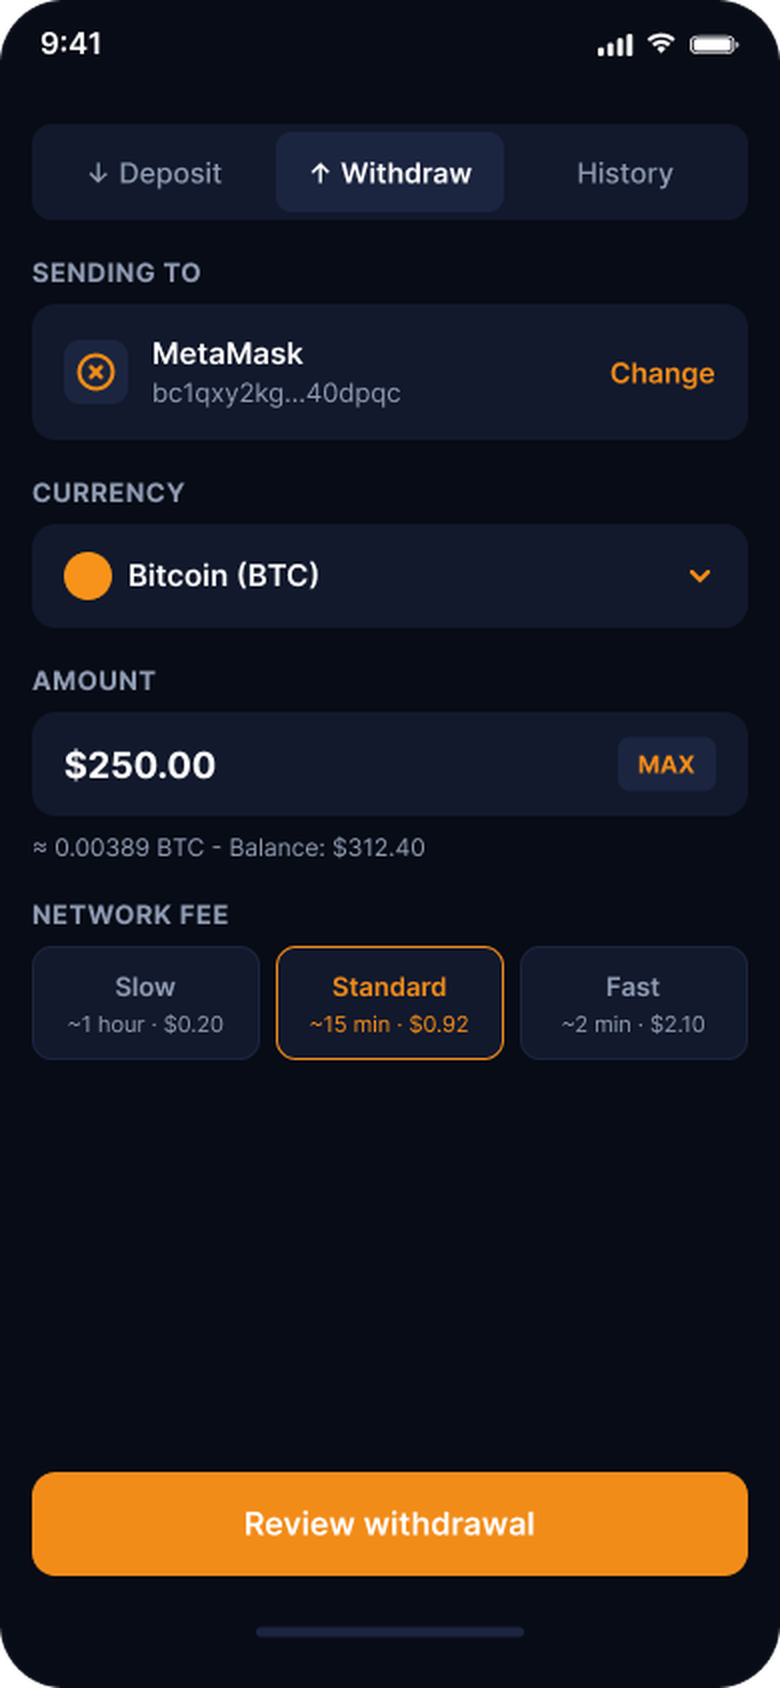
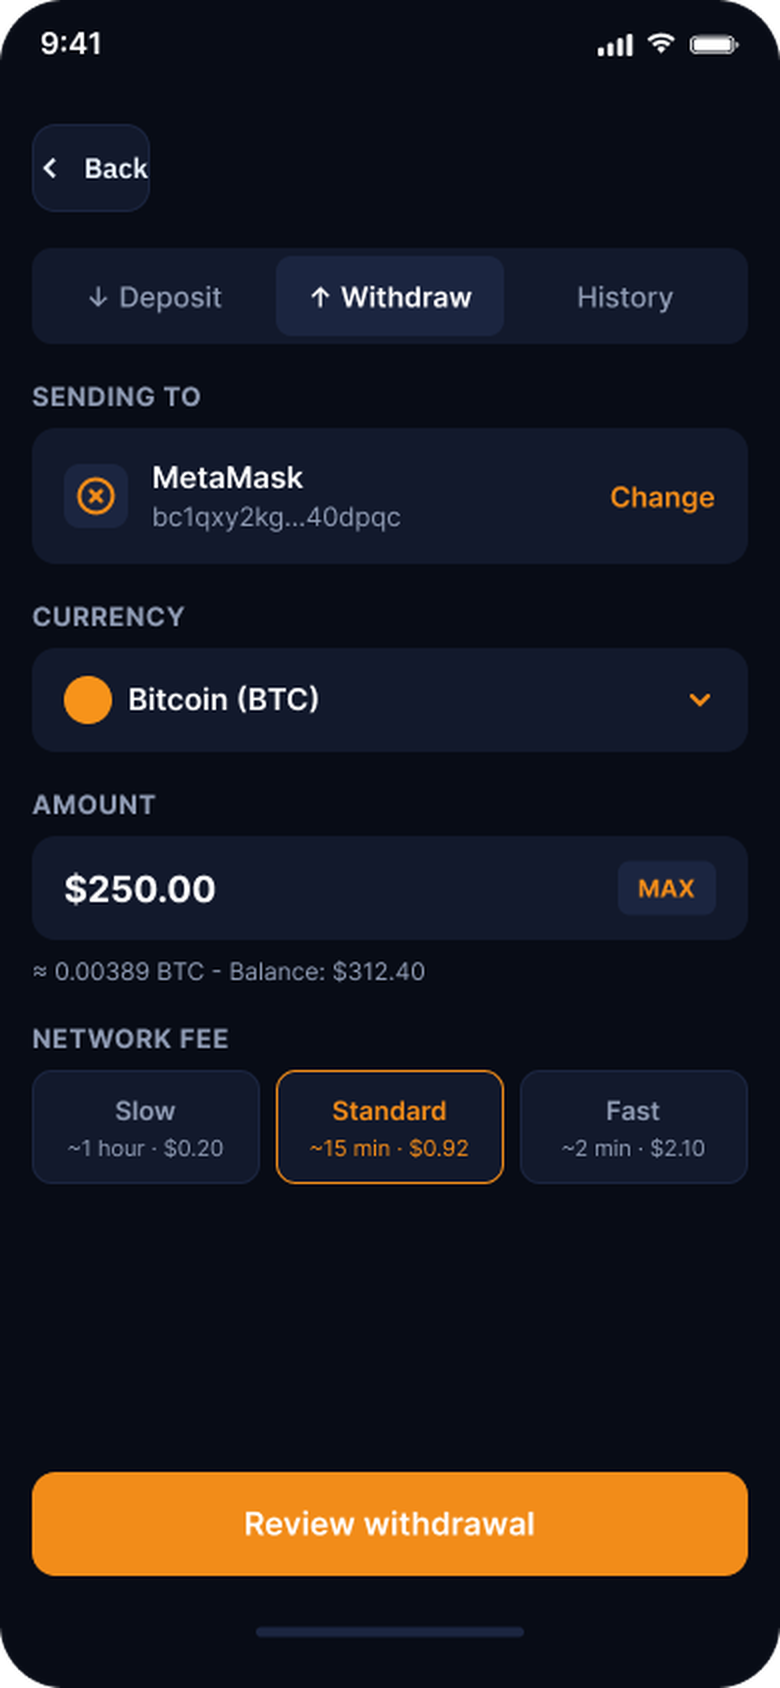
Add interactive trust walkthrough to the cashier case study
New CaseStudyWalkthrough component: an iPhone frame with numbered pins
over the exact UI regions beside a list of four steps. Clicking a step
swaps the screen and its callouts; it auto-advances until the reader
takes over. Steps cover wallet selection, amount and network on one
screen, the live confirmation state, and the error guardrail.

Also refresh the solution-row screens to the Back-button exports.

Claude-Session: https://claude.ai/code/session_01AoRfNk2gKVXEJqsJWcZC7M

diff --git a/lib/projects.ts b/lib/projects.ts
@@ -33,6 +33,22 @@ export type CaseStudyDevice = {
   interval?: number
 }
 
+/** A guided tour: screens in an iPhone frame with numbered pins over the regions that matter. */
+export type CaseStudyWalkthrough = {
+  steps: {
+    /** Short pill-style label, e.g. "Select wallet". */
+    label: string
+    title: string
+    body: string
+    src: string
+    alt: string
+    /** Pins as percentages of the screen: x, y, width, height. */
+    callouts: { x: number; y: number; w: number; h: number; note: string }[]
+  }[]
+  /** Milliseconds per step before auto-advancing. Defaults to 5200. */
+  interval?: number
+}
+
 /** Interactive embed (e.g. a live Figma prototype) framed inside a case study. */
 export type CaseStudyPrototype = {
   /** Embeddable URL, e.g. an embed.figma.com/proto/... link. */
@@ -99,6 +115,8 @@ export type CaseStudy = {
     lead: string
     findings: { title: string; body: string }[]
     media?: CaseStudyMediaItem | CaseStudyMediaItem[]
+    /** Interactive walkthrough shown between the lead and the findings. */
+    walkthrough?: CaseStudyWalkthrough
   }
   /** Stat band. Omit or leave empty to hide it. */
   metrics?: { value: string; label: string }[]
@@ -496,6 +514,54 @@ export const projects: Project[] = [
         kicker: 'How do you show trust in UI?',
         heading: { lead: 'Trust is ', em: 'system status', tail: ', shown before the user has to ask.' },
         lead: 'Nielsen Norman’s first heuristic is visibility of system status: keep users informed with timely, appropriate feedback. With money in flight, that means every screen carries a state (idle, validating, pending, confirmed, failed) and a status the user can verify (a confirmation count, a transaction link, a fee shown before commit). Three more heuristics did the rest of the work.',
+        walkthrough: {
+          steps: [
+            {
+              label: 'Select wallet',
+              title: 'No manual entry by default, override only if you need it',
+              body: 'The first thing a user sees is their detected wallet, already connected. Pasting an address is still possible, but it is a secondary link below the fold of the decision, not the primary prompt.',
+              src: '/work/cashier/hero-1-link-wallet.png',
+              alt: 'Link a wallet to get paid, with MetaMask detected and connected at the top and a small link to enter an address manually at the bottom.',
+              callouts: [
+                { x: 3, y: 31.5, w: 94, h: 11, note: 'The detected wallet is the default. One tap, nothing to type.' },
+                { x: 18, y: 81, w: 64, h: 5, note: 'Manual entry stays as a secondary link for the people who truly need it.' },
+              ],
+            },
+            {
+              label: 'Amount & network',
+              title: 'Every decision lives on the screen where the transaction is shown',
+              body: 'Wallet, currency, amount, balance, and fee tier are all on one screen and all editable in place. Nothing is tucked behind a settings page, so nothing has to be remembered.',
+              src: '/work/cashier/hero-2-amount.png',
+              alt: 'Withdrawal form with the connected wallet, currency, amount with MAX, balance beneath, and three fee tiers.',
+              callouts: [
+                { x: 3, y: 24.5, w: 94, h: 9, note: 'The destination wallet is shown and changeable right here.' },
+                { x: 3, y: 48.5, w: 94, h: 23, note: 'Amount, balance, and fee tier side by side. Edit any of them in place.' },
+              ],
+            },
+            {
+              label: 'Confirmation',
+              title: 'The status is live, and it says where the money is',
+              body: 'Once sent, the screen does not go quiet. A pending badge carries the confirmation count, the destination is restated, and a transaction link lets the user verify on chain for themselves.',
+              src: '/work/cashier/screen-pending.png',
+              alt: 'Withdrawal on its way, with a pending badge reading 1 of 3 confirmations, the destination address, a transaction link, and a note that the wallet is saved.',
+              callouts: [
+                { x: 1, y: 44, w: 98, h: 16, note: 'Pending with a count, the destination, and a link to verify. Status in the user’s words.' },
+                { x: 1, y: 62, w: 98, h: 6.5, note: 'The wallet is saved, and the screen says what that means next time.' },
+              ],
+            },
+            {
+              label: 'Error state',
+              title: 'The guardrail catches the mistake, not the user',
+              body: 'Over the balance, the field itself turns red with the reason, the helper line explains what MAX would send, and the primary button stays disabled until the numbers work. The error is impossible to miss and impossible to submit.',
+              src: '/work/cashier/screen-balance-error.png',
+              alt: 'Withdrawal form with the amount field outlined in red, a message that amount plus fee exceeds the balance, a note on what MAX sends, and a disabled Review withdrawal button.',
+              callouts: [
+                { x: 3, y: 36, w: 94, h: 17.5, note: 'The field says what is wrong and what MAX would send instead.' },
+                { x: 3, y: 86.5, w: 94, h: 7, note: 'The button stays off until the numbers work.' },
+              ],
+            },
+          ],
+        },
         findings: [
           {
             title: 'Error prevention',

diff --git a/app/globals.css b/app/globals.css
@@ -1478,6 +1478,153 @@ h2 em {
   outline-offset: 2px;
 }
 
+/* Walkthrough — device with callout pins beside a list of steps */
+.cs-walk {
+  display: grid;
+  grid-template-columns: minmax(0, 5fr) minmax(0, 6fr);
+  gap: 48px;
+  align-items: center;
+  margin: 8px 0 48px;
+  padding: clamp(24px, 4vw, 48px);
+  border: 1px solid var(--line);
+  border-radius: 18px;
+  background: rgba(255, 255, 255, 0.015);
+}
+.cs-walk__device {
+  display: grid;
+  place-items: center;
+}
+.cs-walk .cs-iphone {
+  height: auto;
+  width: min(300px, 100%);
+  transform: none;
+}
+.cs-walk__pin {
+  position: absolute;
+  border: 2px solid var(--rose);
+  border-radius: 3.2cqw;
+  box-shadow:
+    0 0 0 1px rgba(12, 8, 16, 0.6),
+    0 0 0 999px rgba(8, 12, 22, 0.28);
+  animation: cs-pin-in 0.5s cubic-bezier(0.16, 1, 0.3, 1) both;
+}
+.cs-walk__pin i {
+  position: absolute;
+  top: -3.2cqw;
+  left: -3.2cqw;
+  width: 6.4cqw;
+  height: 6.4cqw;
+  border-radius: 50%;
+  background: var(--rose);
+  color: var(--ink);
+  font: 700 3.3cqw/6.4cqw var(--font-sans);
+  text-align: center;
+  font-style: normal;
+}
+@keyframes cs-pin-in {
+  from { opacity: 0; transform: scale(0.96); }
+  to { opacity: 1; transform: none; }
+}
+.cs-walk__steps {
+  list-style: none;
+  margin: 0;
+  padding: 0;
+  display: flex;
+  flex-direction: column;
+  gap: 6px;
+}
+.cs-walk__step button {
+  appearance: none;
+  width: 100%;
+  display: grid;
+  grid-template-columns: auto 1fr;
+  grid-template-areas: 'num label' 'num title';
+  column-gap: 16px;
+  row-gap: 4px;
+  align-items: baseline;
+  text-align: left;
+  padding: 16px 18px;
+  border: 1px solid transparent;
+  border-radius: 14px;
+  background: transparent;
+  color: var(--cream);
+  cursor: pointer;
+  transition: background 0.3s ease, border-color 0.3s ease;
+}
+.cs-walk__step button:hover {
+  background: rgba(255, 255, 255, 0.025);
+}
+.cs-walk__step button:focus-visible {
+  outline: 2px solid var(--rose);
+  outline-offset: 2px;
+}
+.cs-walk__step.is-active button {
+  background: rgba(74, 28, 47, 0.22);
+  border-color: rgba(217, 123, 114, 0.35);
+}
+.cs-walk__num {
+  grid-area: num;
+  font-family: var(--font-serif);
+  font-size: 22px;
+  line-height: 1;
+  color: var(--cream);
+  opacity: 0.6;
+}
+.cs-walk__step.is-active .cs-walk__num {
+  opacity: 1;
+}
+.cs-walk__label {
+  grid-area: label;
+  color: var(--peach);
+  font-size: 12px;
+  font-weight: 600;
+  letter-spacing: 0.04em;
+}
+.cs-walk__title {
+  grid-area: title;
+  font-family: var(--font-serif);
+  font-size: 19px;
+  line-height: 1.25;
+  color: #f5e7de;
+}
+.cs-walk__body {
+  padding: 4px 18px 18px 56px;
+}
+.cs-walk__body p {
+  margin: 0 0 14px;
+  color: #c8bdb8;
+  font-size: 15px;
+  line-height: 1.7;
+}
+.cs-walk__notes {
+  list-style: none;
+  margin: 0;
+  padding: 0;
+  display: flex;
+  flex-direction: column;
+  gap: 8px;
+}
+.cs-walk__notes li {
+  display: flex;
+  gap: 10px;
+  align-items: flex-start;
+  color: #d8cdc8;
+  font-size: 14px;
+  line-height: 1.55;
+}
+.cs-walk__notes i {
+  flex: 0 0 auto;
+  width: 20px;
+  height: 20px;
+  border-radius: 50%;
+  background: var(--rose);
+  color: var(--ink);
+  font: 700 11px/20px var(--font-sans);
+  text-align: center;
+  font-style: normal;
+  margin-top: 1px;
+}
+
 /* Media grid — several small artifacts side by side under one caption */
 .cs-media-grid {
   margin: 48px 0 0;
@@ -2153,6 +2300,16 @@ h2 em {
   .cs-media-grid__items {
     grid-template-columns: repeat(2, minmax(0, 1fr));
     gap: 14px;
+  }
+  .cs-walk {
+    grid-template-columns: 1fr;
+    gap: 28px;
+  }
+  .cs-walk .cs-iphone {
+    width: min(260px, 100%);
+  }
+  .cs-walk__body {
+    padding-left: 18px;
   }
   .cs-device-stage {
     aspect-ratio: 4 / 5;

diff --git a/components/CaseStudyWalkthrough.tsx b/components/CaseStudyWalkthrough.tsx
@@ -1,0 +1,111 @@
+'use client'
+
+import Image from 'next/image'
+import { useEffect, useState } from 'react'
+import type { CaseStudyWalkthrough as Walkthrough } from '@/lib/projects'
+
+/**
+ * A guided tour of how trust shows up in the UI: an iPhone frame with
+ * numbered pins over the exact regions that do the work, and a list of
+ * steps beside it. Auto-advances gently until the reader takes over.
+ */
+export function CaseStudyWalkthrough({ walk }: { walk: Walkthrough }) {
+  const { steps, interval = 5200 } = walk
+  const [active, setActive] = useState(0)
+  const [paused, setPaused] = useState(false)
+  const [reduced, setReduced] = useState(false)
+
+  useEffect(() => {
+    const mq = window.matchMedia('(prefers-reduced-motion: reduce)')
+    const sync = () => setReduced(mq.matches)
+    sync()
+    mq.addEventListener('change', sync)
+    return () => mq.removeEventListener('change', sync)
+  }, [])
+
+  useEffect(() => {
+    if (paused || reduced || steps.length < 2) return
+    const id = window.setInterval(
+      () => setActive((i) => (i + 1) % steps.length),
+      interval,
+    )
+    return () => window.clearInterval(id)
+  }, [paused, reduced, steps.length, interval])
+
+  const pick = (i: number) => {
+    setActive(i)
+    setPaused(true)
+  }
+
+  const step = steps[active]
+
+  return (
+    <div className="cs-walk reveal-on-scroll">
+      <div className="cs-walk__device">
+        <div className="cs-iphone" aria-hidden="true">
+          <span className="cs-iphone__btn cs-iphone__btn--l1" />
+          <span className="cs-iphone__btn cs-iphone__btn--l2" />
+          <span className="cs-iphone__btn cs-iphone__btn--l3" />
+          <span className="cs-iphone__btn cs-iphone__btn--r1" />
+          <div className="cs-iphone__screen">
+            {steps.map((s, i) => (
+              <Image
+                key={s.src}
+                src={s.src}
+                alt=""
+                width={780}
+                height={1688}
+                className={`cs-iphone__shot${i === active ? ' is-active' : ''}`}
+              />
+            ))}
+            {step.callouts.map((c, i) => (
+              <span
+                key={`${active}-${i}`}
+                className="cs-walk__pin"
+                style={{
+                  left: `${c.x}%`,
+                  top: `${c.y}%`,
+                  width: `${c.w}%`,
+                  height: `${c.h}%`,
+                }}
+              >
+                <i>{i + 1}</i>
+              </span>
+            ))}
+          </div>
+          <span className="cs-iphone__island" />
+        </div>
+      </div>
+
+      <ol className="cs-walk__steps">
+        {steps.map((s, i) => (
+          <li
+            key={s.title}
+            className={`cs-walk__step${i === active ? ' is-active' : ''}`}
+          >
+            <button
+              type="button"
+              onClick={() => pick(i)}
+              aria-expanded={i === active}
+            >
+              <span className="cs-walk__num">{`0${i + 1}`}</span>
+              <span className="cs-walk__label">{s.label}</span>
+              <span className="cs-walk__title">{s.title}</span>
+            </button>
+            <div className="cs-walk__body" hidden={i !== active}>
+              <p>{s.body}</p>
+              <ol className="cs-walk__notes">
+                {s.callouts.map((c, j) => (
+                  <li key={c.note}>
+                    <i>{j + 1}</i>
+                    <span>{c.note}</span>
+                  </li>
+                ))}
+              </ol>
+            </div>
+          </li>
+        ))}
+      </ol>
+    </div>
+  )
+}

diff --git a/components/CaseStudy.tsx b/components/CaseStudy.tsx
@@ -4,6 +4,7 @@ import { ProjectArt } from './ProjectArt'
 import { CaseStudyMedia, CaseStudyMediaGroup } from './CaseStudyMedia'
 import { CaseStudyPrototype } from './CaseStudyPrototype'
 import { CaseStudyDeviceLoop } from './CaseStudyDeviceLoop'
+import { CaseStudyWalkthrough } from './CaseStudyWalkthrough'
 
 export function CaseStudy({ project }: { project: Project }) {
   const cs = project.caseStudy
@@ -118,6 +119,9 @@ export function CaseStudy({ project }: { project: Project }) {
           )}
         </h2>
         <p className="cs-section__lead">{cs.discovery.lead}</p>
+        {cs.discovery.walkthrough ? (
+          <CaseStudyWalkthrough walk={cs.discovery.walkthrough} />
+        ) : null}
         <CaseStudyMediaGroup media={cs.discovery.media} />
         <div className="cs-findings">
           {cs.discovery.findings.map((f, i) => (
